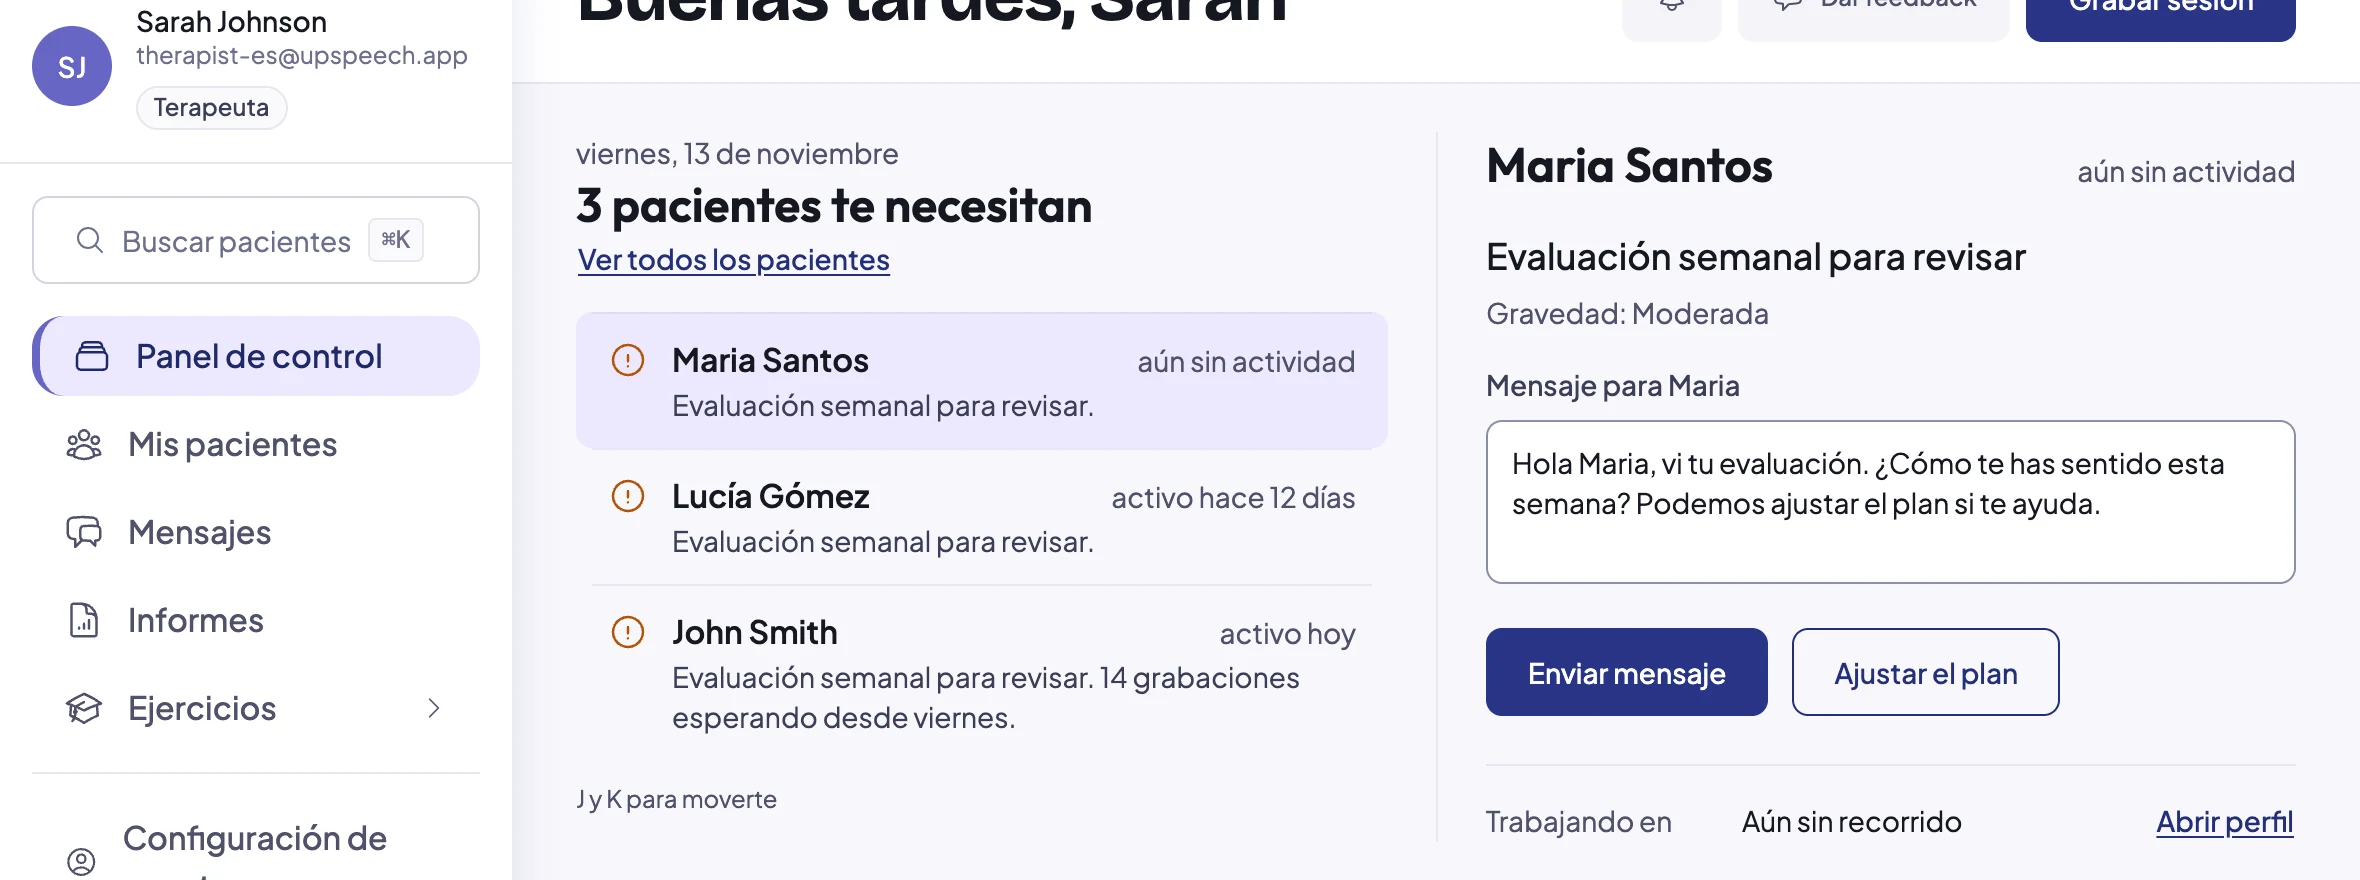
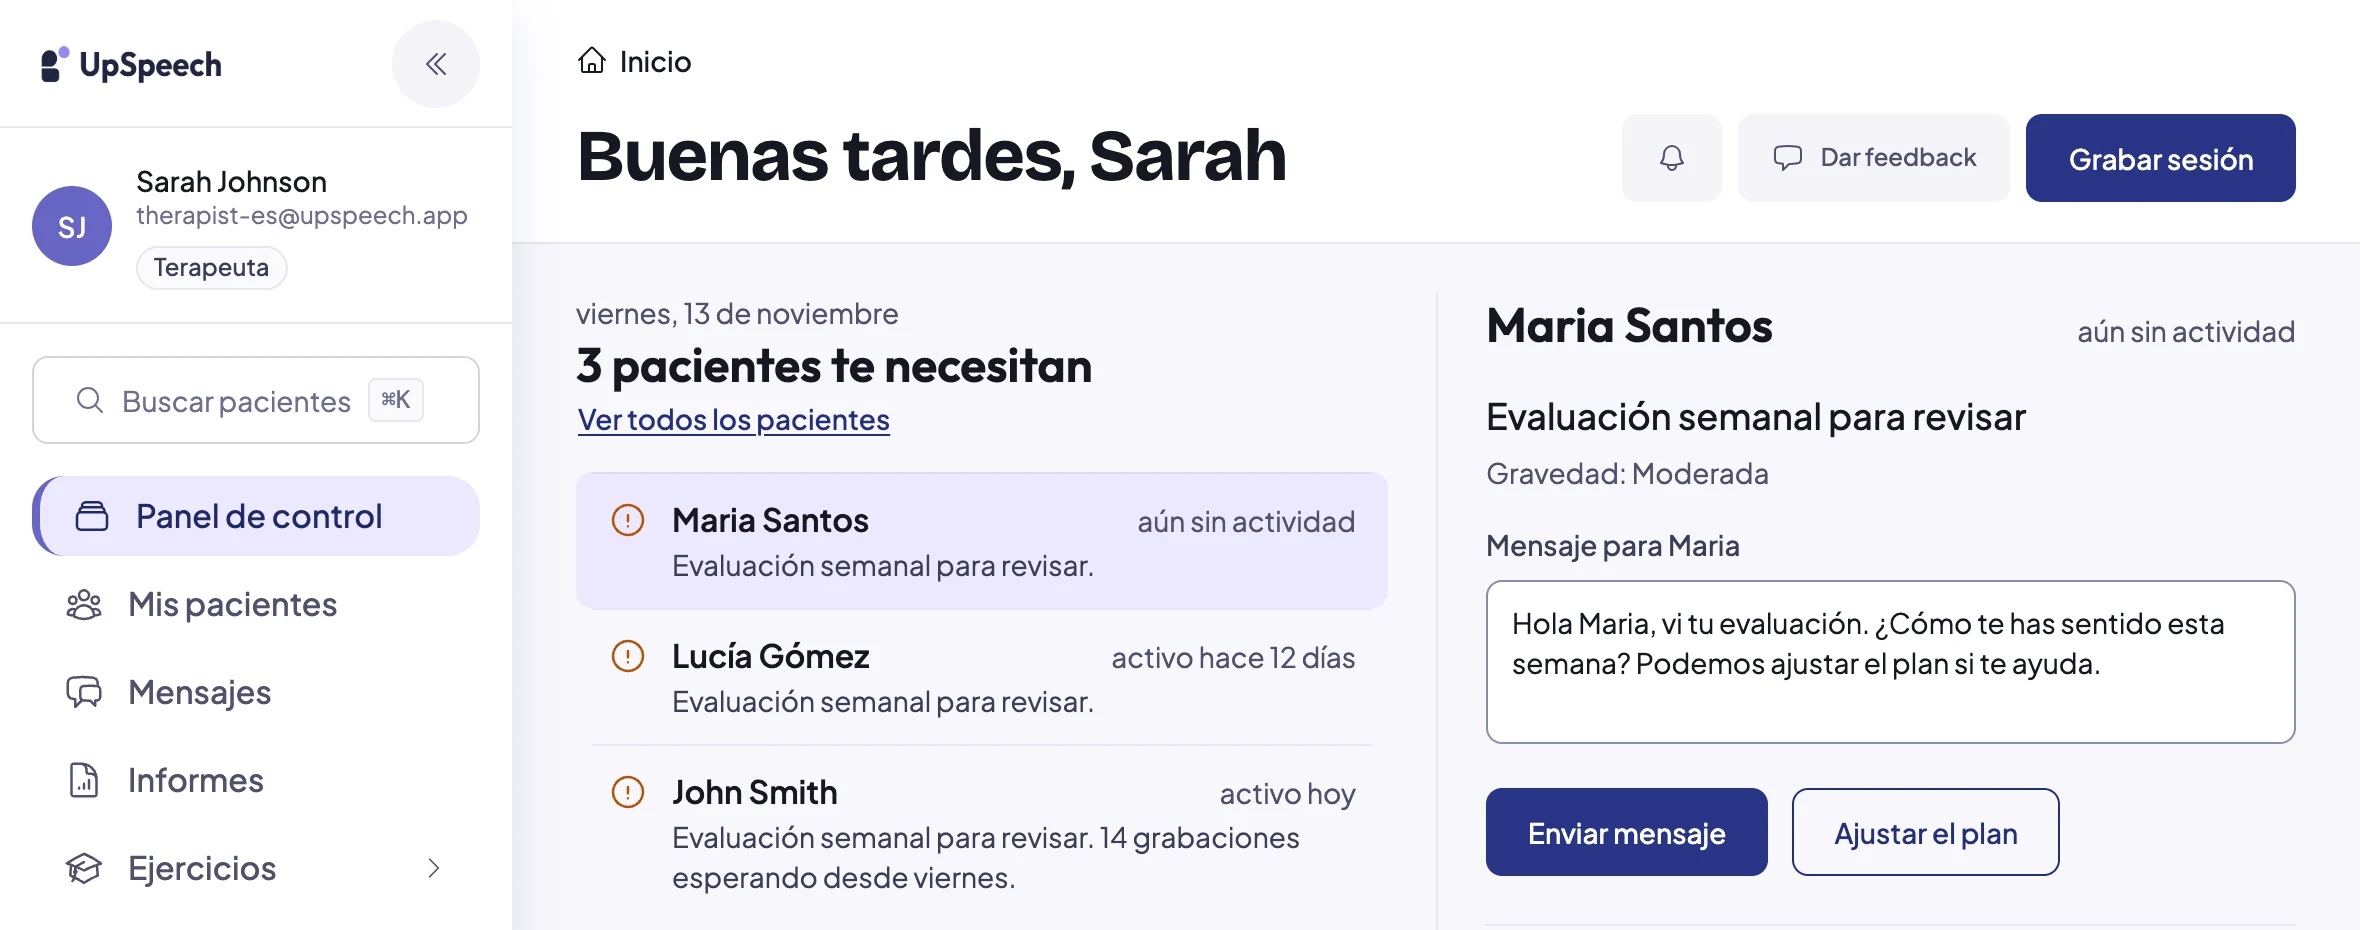
fix(screens): crop the dashboard from the top, so the greeting stays in

diff --git a/src/components/ClinicianDay.tsx b/src/components/ClinicianDay.tsx
@@ -300,7 +300,7 @@ const ClinicianDay = () => {
                 )}
                 alt={t.close.screenshotAlt}
                 width={2360}
-                height={880}
+                height={930}
                 loading="lazy"
                 decoding="async"
                 className="block h-auto w-full"
